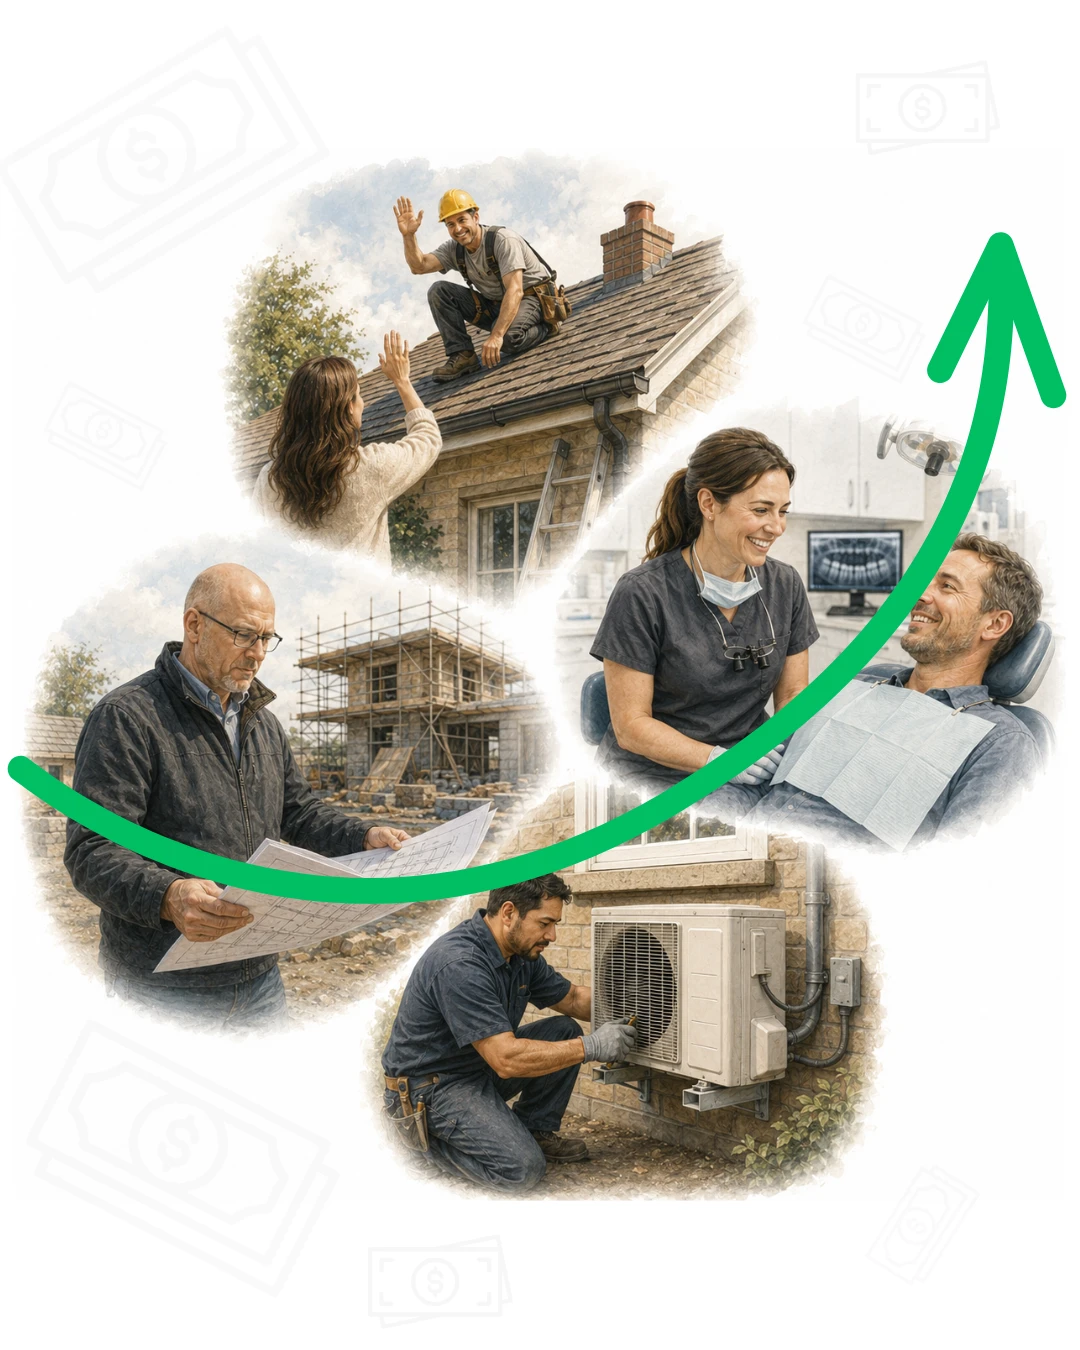
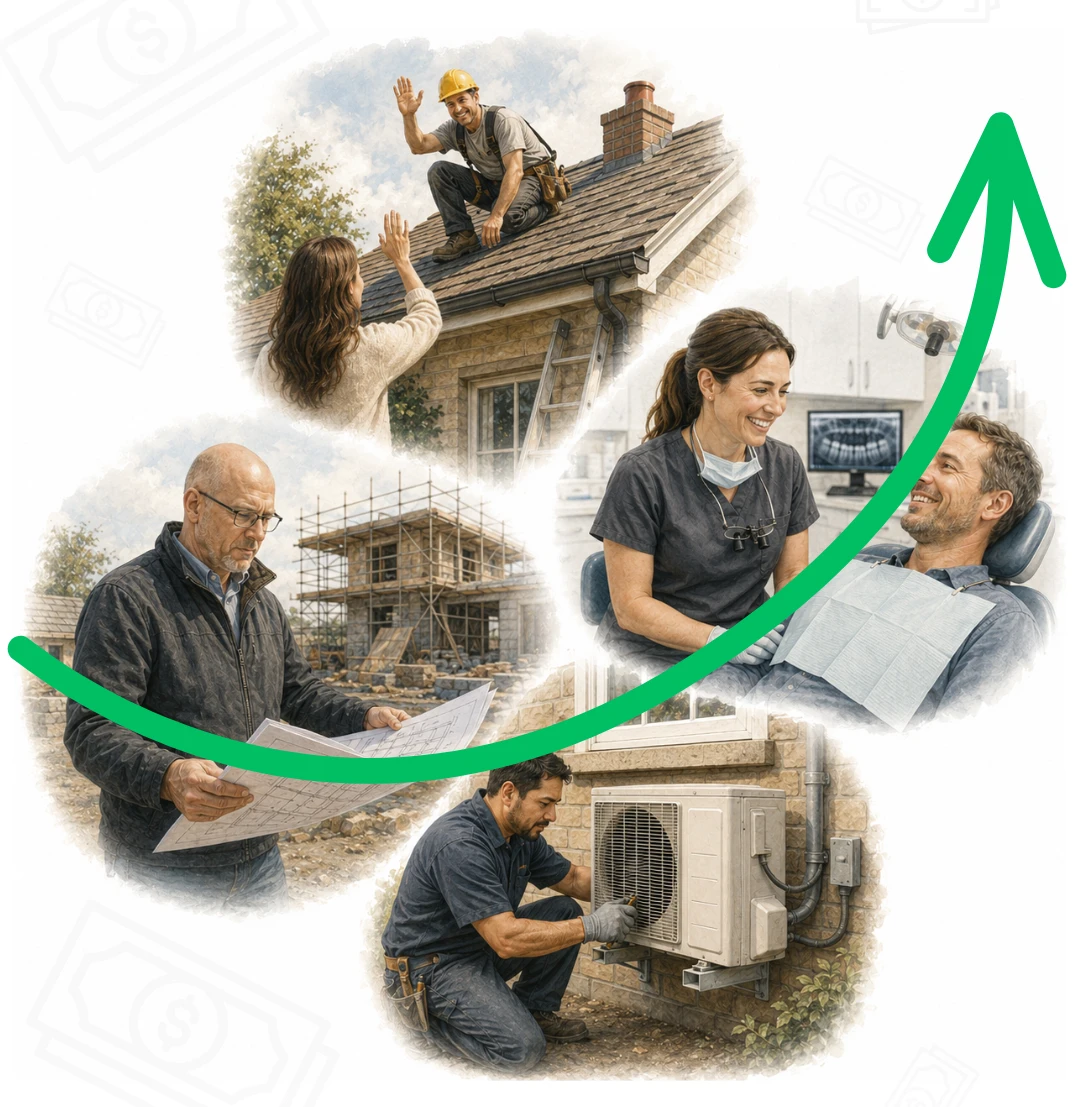
Replace hero image and tighten margin to line-height size

diff --git a/styles.css b/styles.css
@@ -93,7 +93,7 @@ p {
   max-width: 280px;
   width: 100%;
   height: auto;
-  margin: 6px auto;
+  margin: 2px auto;
 }
 
 @media (min-width: 641px) {